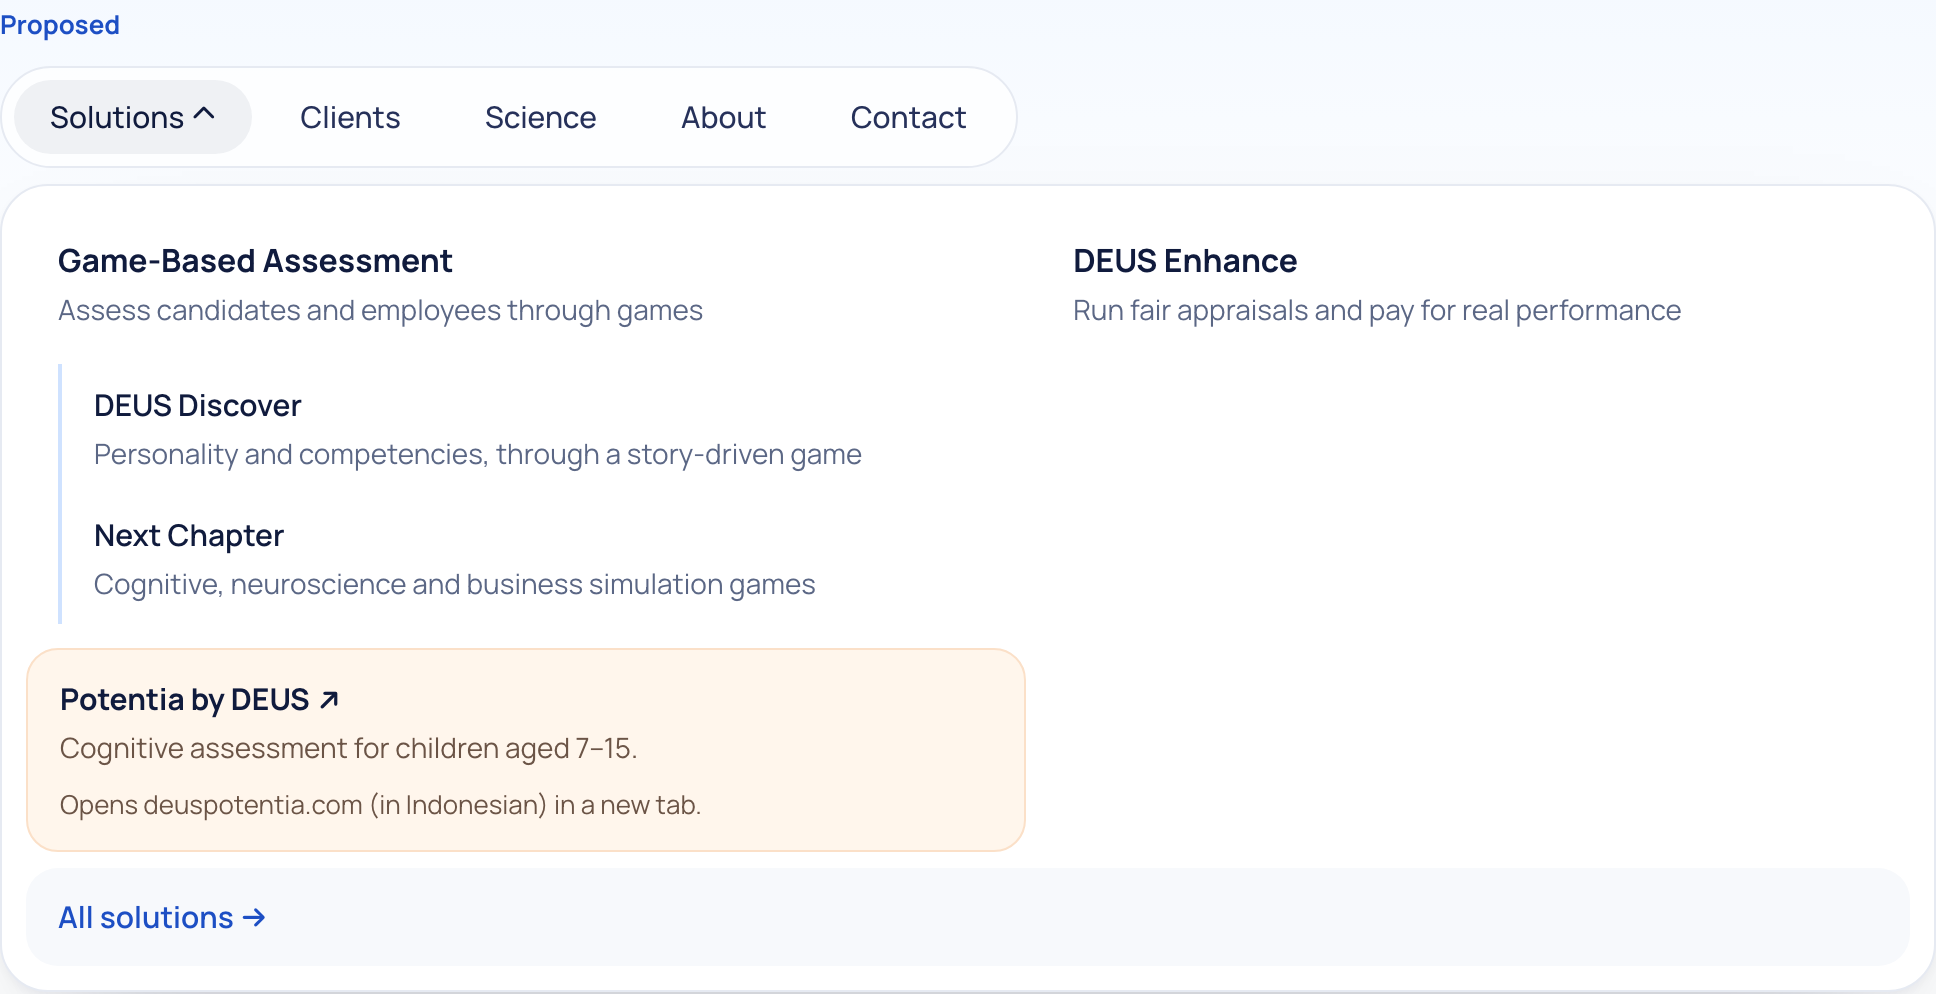
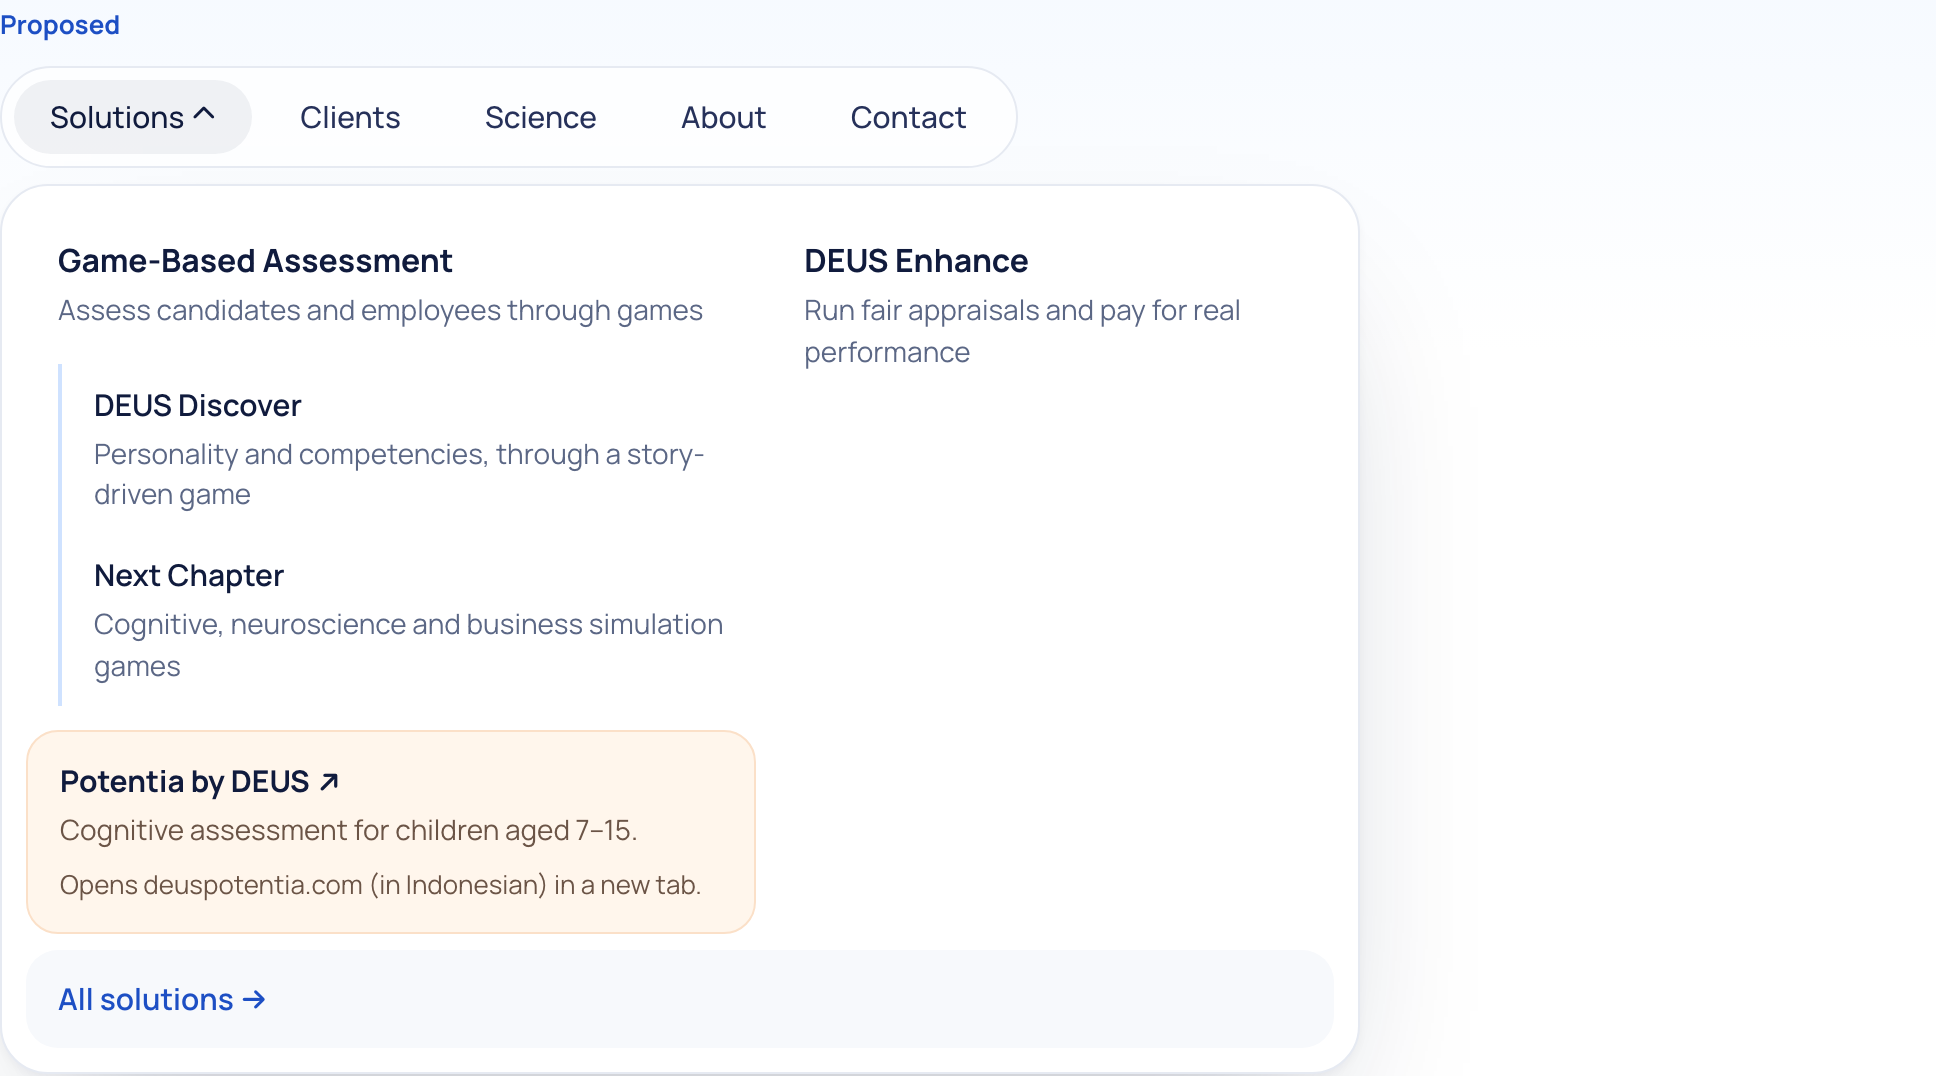
Solutions menu mockup: narrower panel (680px) for the two-column layout
The owner kept Potentia under Discover and Next Chapter and chose a narrower
panel over moving it. F1 notes the width.

diff --git a/postpushrevisions1.1/solutions-menu-mockup.html b/postpushrevisions1.1/solutions-menu-mockup.html
@@ -49,7 +49,8 @@
   .before .group-s { padding: 0 16px 4px; font-size: 14px; line-height: 1.45; color: var(--slate); margin: 0; }
 
   /* proposed menu */
-  .after .grid { grid-template-columns: 1.15fr 1fr; }
+  .after .panel { width: min(680px, 100%); }   /* narrower than today's 880px: two columns, not three */
+  .after .grid { grid-template-columns: 1.3fr 1fr; }
   .after .lead .t { font-size: 16px; }
   .children { margin: 2px 0 0 16px; padding-left: 0; border-left: 2px solid var(--sky-2); }
   .children .item { padding: 10px 16px; border-radius: 0 16px 16px 0; }
@@ -64,7 +65,7 @@
 <body>
 <main>
   <h1>Solutions menu, before and after</h1>
-  <p class="intro">Feedback F1. The menu loses the "Assess" and "Perform and reward" headings, which looked like clickable products. Game-Based Assessment leads its column, with DEUS Discover and Next Chapter under it as its two parts and Potentia below them. DEUS Enhance gets the other column. Hover any item to see its hover state.</p>
+  <p class="intro">Feedback F1. The menu loses the "Assess" and "Perform and reward" headings, which looked like clickable products. Game-Based Assessment leads its column, with DEUS Discover and Next Chapter under it as its two parts and Potentia below them. DEUS Enhance gets the other column, and the panel is narrower (680px instead of 880px) so that column doesn't leave a big gap. Hover any item to see its hover state.</p>
 
   <section class="after">
     <span class="label new">Proposed</span><br>

diff --git a/postpushrevisions1.1/feedback-2026-10-16.md b/postpushrevisions1.1/feedback-2026-10-16.md
@@ -57,6 +57,7 @@ This is TODO-NEXT item 2. Each note from the owner's first pass over the live si
 - **Game-Based Assessment leads its column**, and the verb moves into its description, so "assess through game-based assessment" is said in the menu: *"Assess candidates and employees through games."* DEUS Discover and Next Chapter sit under it with a thin left rule as its two parts. That's the one real level of nesting, the same as F10.
 - **DEUS Enhance** leads the next column the same way: *"Run fair appraisals and pay for real performance."* (the current "Perform and reward" line, which moves into the product).
 - **Potentia** goes below Discover and Next Chapter in the Game-Based Assessment column (owner, 2026-10-16), as its own card, not nested, with its "opens deuspotentia.com" note.
+- The panel gets narrower (about 680px instead of 880px), since it now has two columns instead of three (owner, 2026-10-16).
 - The mobile menu gets the same shape.
 
 ```
